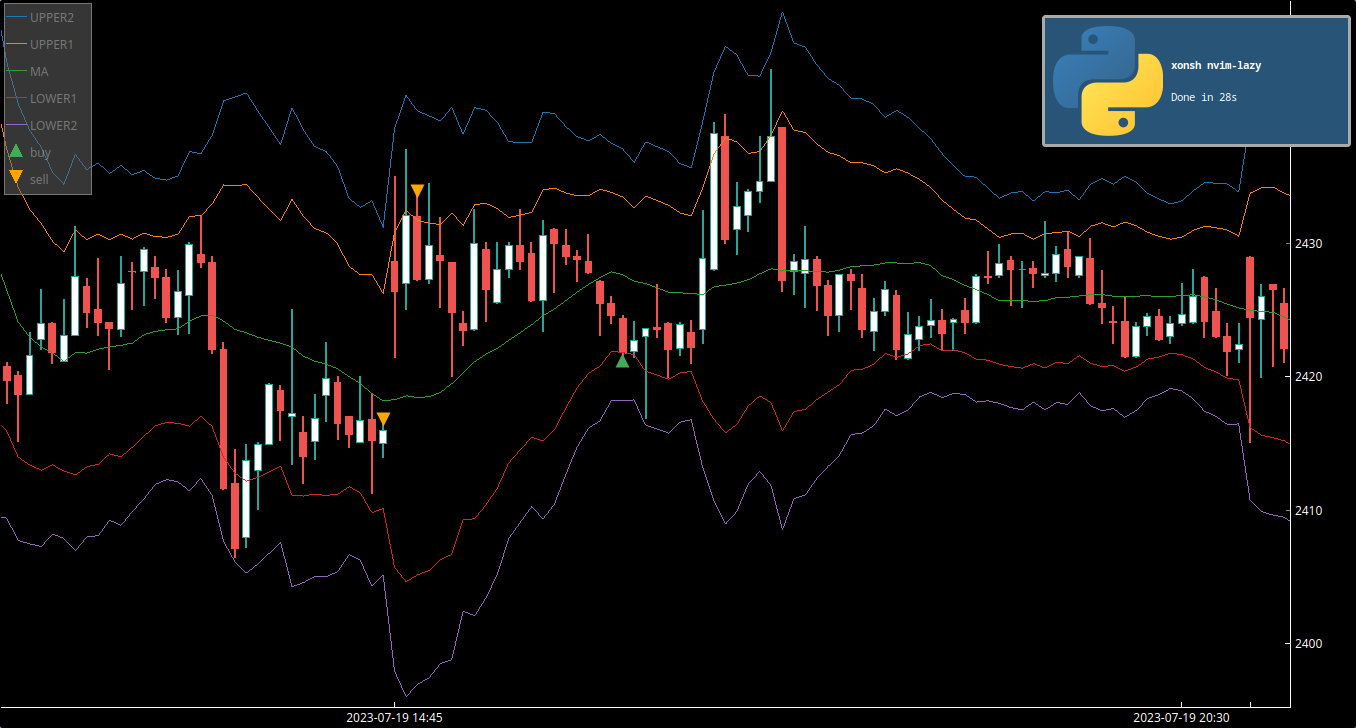
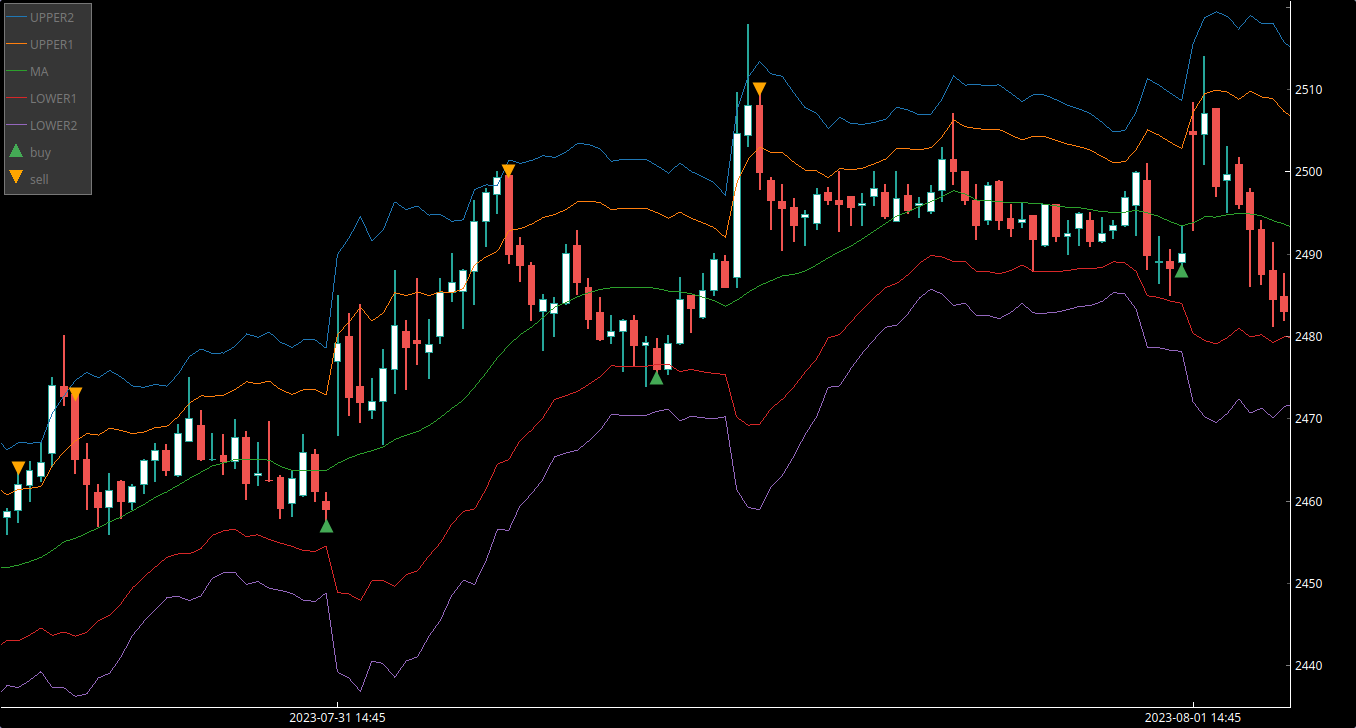
rename lib to library

diff --git a/quant_bt/library/universe.py b/quant_bt/library/universe.py
@@ -1,0 +1,9 @@
+import pandas as pd
+
+
+def symbols(filename):
+    universe_df = pd.read_csv('data/' + filename)
+    universe_df['disabled'] = universe_df['disabled'].astype('str')
+    universe_df = universe_df[~(universe_df.disabled.str.upper() == 'Y')]
+    universe_df = universe_df.drop(['disabled'], axis=1)
+    return universe_df

diff --git a/quant_bt/downloaders/ao_dl.py b/quant_bt/downloaders/ao_dl.py
@@ -1,7 +1,7 @@
 import csv
 from omspy_brokers.angel_one import AngelOne
 from toolkit.fileutils import Fileutils
-from lib.universe import symbols
+from library.universe import symbols
 import sys
 import json
 from time import sleep

diff --git a/quant_bt/library/__init__.py b/quant_bt/library/__init__.py
@@ -1,0 +1,1 @@
+__package__ == "quant-bt"
